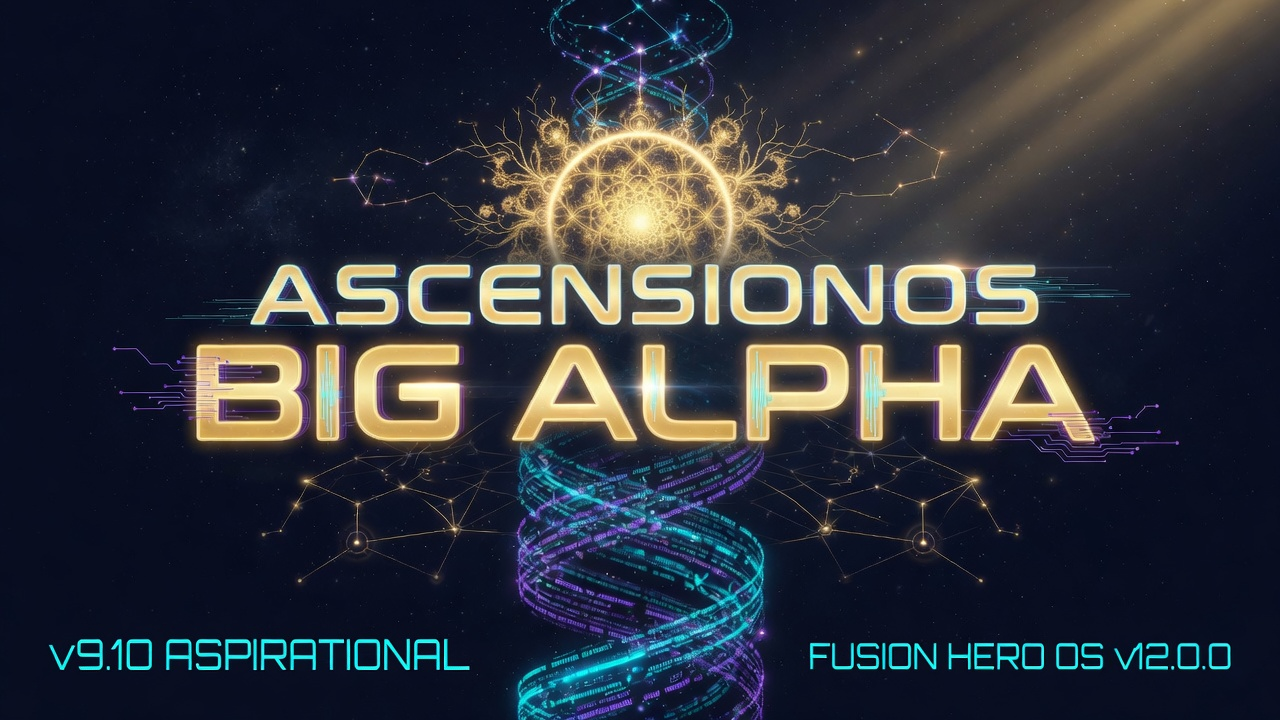
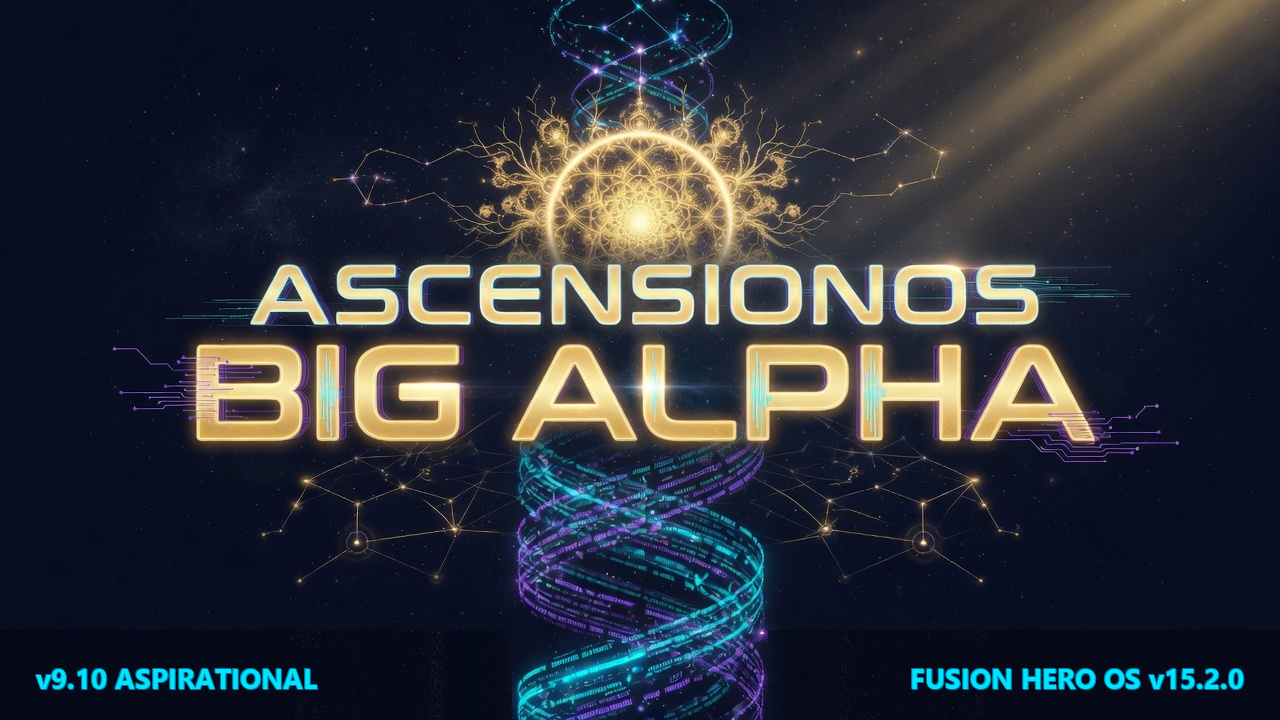
feat(assets): BIG ALPHA corner badges → FUSION HERO OS v15.2.0 [push-ok]
PIL-only label repaint (no diffusion). Left: v9.10 ASPIRATIONAL. Right:
FUSION HERO OS v15.2.0. Sync Dashboard static, ascension_os, dissertation,
memes; add relabel script + BIG_ALPHA_ASSET_V15.md. SHA256 in ops doc.

Changed region(s): [[0.625, 0.8861, 0.9688, 0.9778], [0.0312, 0.8861, 0.375, 0.9778]]

diff --git a/scripts/relabel_big_alpha_version.py b/scripts/relabel_big_alpha_version.py
@@ -1,0 +1,239 @@
+#!/usr/bin/env python3
+# -*- coding: utf-8 -*-
+"""Relabel BIG ALPHA corner version badges via PIL (exact strings, no diffusion).
+
+Default: right badge → FUSION HERO OS v{VERSION from root}
+Left badge stays v9.10 ASPIRATIONAL unless --left is set.
+
+Honesty: only paints discrete text; composition/DNA/title art untouched.
+"""
+from __future__ import annotations
+
+import argparse
+import hashlib
+import shutil
+import sys
+from pathlib import Path
+
+from PIL import Image, ImageDraw, ImageFont
+
+ROOT = Path(__file__).resolve().parents[1]
+
+# Sync targets inside repo (byte-identical after update)
+REPO_TARGETS = [
+    ROOT / "03_Code" / "Dashboard" / "static" / "big_ALPHA.png",
+    ROOT / "ascension_os" / "assets" / "big_ALPHA.png",
+    ROOT / "docs" / "dissertation" / "assets" / "ascensionOS_big_ALPHA.png",
+    ROOT / "docs" / "dissertation" / "assets" / "big_ALPHA_v15.png",
+    ROOT / "memes" / "ascensionOS_big_ALPHA.png",
+]
+
+CANON_CANDIDATES = [
+    Path(r"C:\Dissertation_95guknow\assets\big_ALPHA.png"),
+    ROOT / "03_Code" / "Dashboard" / "static" / "big_ALPHA.png",
+    ROOT / "docs" / "dissertation" / "assets" / "ascensionOS_big_ALPHA.png",
+]
+
+
+def read_platform_version() -> str:
+    vf = ROOT / "VERSION"
+    if vf.is_file():
+        return vf.read_text(encoding="utf-8").strip() or "15.2.0"
+    return "15.2.0"
+
+
+def pick_font(size: int) -> ImageFont.FreeTypeFont | ImageFont.ImageFont:
+    for path in (
+        r"C:\Windows\Fonts\segoeuib.ttf",
+        r"C:\Windows\Fonts\arialbd.ttf",
+        r"C:\Windows\Fonts\seguiemj.ttf",
+        r"C:\Windows\Fonts\arial.ttf",
+    ):
+        p = Path(path)
+        if p.is_file():
+            return ImageFont.truetype(str(p), size=size)
+    return ImageFont.load_default()
+
+
+def _median_bg(im: Image.Image, box: tuple[int, int, int, int]) -> tuple[int, int, int]:
+    crop = im.crop(box)
+    # sample corners of region (avoid text center)
+    w, h = crop.size
+    samples = [
+        crop.getpixel((2, 2)),
+        crop.getpixel((w - 3, 2)),
+        crop.getpixel((2, h - 3)),
+        crop.getpixel((w - 3, h - 3)),
+        crop.getpixel((w // 2, 2)),
+        crop.getpixel((w // 2, h - 3)),
+    ]
+    rs = sorted(s[0] for s in samples)
+    gs = sorted(s[1] for s in samples)
+    bs = sorted(s[2] for s in samples)
+    mid = len(samples) // 2
+    return rs[mid], gs[mid], bs[mid]
+
+
+def paint_badge(
+    im: Image.Image,
+    *,
+    text: str,
+    side: str,
+    fill: tuple[int, int, int] = (0, 229, 255),
+    font_size: int = 28,
+) -> None:
+    """Paint left or right bottom badge; cover previous string first."""
+    w, h = im.size
+    draw = ImageDraw.Draw(im)
+    font = pick_font(font_size)
+    # Measure
+    bbox = draw.textbbox((0, 0), text, font=font)
+    tw, th = bbox[2] - bbox[0], bbox[3] - bbox[1]
+    margin_x = 36
+    baseline_y = h - 42
+    if side == "left":
+        x = margin_x
+    else:
+        x = w - margin_x - tw
+    y = baseline_y - th
+
+    # Cover rect slightly larger than text
+    pad = 10
+    cover = (max(0, x - pad), max(0, y - pad), min(w, x + tw + pad), min(h, y + th + pad + 6))
+    bg = _median_bg(im, cover)
+    draw.rectangle(cover, fill=bg)
+
+    # Soft cyan glow (offset darker layers)
+    glow = (0, 120, 160)
+    for dx, dy in ((-1, 0), (1, 0), (0, -1), (0, 1), (-1, -1), (1, 1)):
+        draw.text((x + dx, y + dy), text, font=font, fill=glow)
+    draw.text((x, y), text, font=font, fill=fill)
+
+
+def sha256_file(path: Path) -> str:
+    h = hashlib.sha256()
+    with path.open("rb") as f:
+        for chunk in iter(lambda: f.read(1 << 20), b""):
+            h.update(chunk)
+    return h.hexdigest()
+
+
+def main() -> int:
+    ap = argparse.ArgumentParser(description="Relabel BIG ALPHA version badges")
+    ap.add_argument("--version", default=None, help="Platform version (default: root VERSION)")
+    ap.add_argument(
+        "--left",
+        default="v9.10 ASPIRATIONAL",
+        help="Left badge text (default keep aspirational track)",
+    )
+    ap.add_argument("--no-left", action="store_true", help="Do not repaint left badge")
+    ap.add_argument("--source", default=None, help="Source PNG path")
+    ap.add_argument("--dry-run", action="store_true")
+    args = ap.parse_args()
+
+    version = args.version or read_platform_version()
+    right = f"FUSION HERO OS v{version}"
+
+    src = Path(args.source) if args.source else None
+    if src is None:
+        for c in CANON_CANDIDATES:
+            if c.is_file():
+                src = c
+                break
+    if src is None or not src.is_file():
+        print("ERROR: no source big_ALPHA.png", file=sys.stderr)
+        return 1
+
+    im = Image.open(src).convert("RGB")
+    if not args.no_left and args.left:
+        paint_badge(im, text=args.left, side="left")
+    paint_badge(im, text=right, side="right")
+
+    out_primary = ROOT / "03_Code" / "Dashboard" / "static" / "big_ALPHA.png"
+    tmp = ROOT / "docs" / "ops" / f"_big_ALPHA_v{version.replace('.', '_')}_work.png"
+    tmp.parent.mkdir(parents=True, exist_ok=True)
+    im.save(tmp, format="PNG", optimize=True)
+
+    digest = sha256_file(tmp)
+    print(f"source:  {src}")
+    print(f"left:    {args.left if not args.no_left else '(unchanged)'}")
+    print(f"right:   {right}")
+    print(f"size:    {im.size}  bytes={tmp.stat().st_size}")
+    print(f"sha256:  {digest}")
+
+    if args.dry_run:
+        print("dry-run: not writing targets")
+        return 0
+
+    written: list[str] = []
+    for dest in REPO_TARGETS:
+        dest.parent.mkdir(parents=True, exist_ok=True)
+        shutil.copy2(tmp, dest)
+        written.append(str(dest))
+
+    # External canon + versioned copies (best-effort)
+    for extra in (
+        Path(r"C:\Dissertation_95guknow\assets\big_ALPHA.png"),
+        Path(rf"C:\Dissertation_95guknow\assets\big_ALPHA_v{version}.png"),
+        Path(r"C:\Dissertation_95guknow\assets\big_ALPHA_v15.png"),
+    ):
+        try:
+            if extra.parent.is_dir():
+                shutil.copy2(tmp, extra)
+                written.append(str(extra))
+        except OSError as e:
+            print(f"note: skip {extra}: {e}")
+
+    # Keep historical v13 filename as copy of new art only if explicitly requested?
+    # Honesty: big_ALPHA_v13.png should remain v13-era OR be left alone.
+    # We write big_ALPHA_v15.png and primary names only.
+
+    print("written:")
+    for w in written:
+        print(f"  {w}")
+
+    # Ops doc
+    doc = ROOT / "docs" / "ops" / "BIG_ALPHA_ASSET_V15.md"
+    doc.write_text(
+        f"""# BIG ALPHA Asset — v{version} label sync
+
+**Source (canonical disk):** `C:\\Dissertation_95guknow\\assets\\big_ALPHA.png`  
+**Versioned copy:** `C:\\Dissertation_95guknow\\assets\\big_ALPHA_v{version}.png`  
+**Also in repo:** `docs/dissertation/assets/big_ALPHA_v15.png`
+
+## Visual
+
+| Field | Value |
+|-------|--------|
+| Title | ASCENSIONOS / BIG ALPHA |
+| Left label | `{args.left if not args.no_left else "(unchanged)"}` |
+| Right label | `{right}` |
+| Size | {im.size[0]}×{im.size[1]} · ~{tmp.stat().st_size // 1024} KB |
+| SHA256 | `{digest}` |
+
+## Synced repo paths (byte-identical)
+
+- `03_Code/Dashboard/static/big_ALPHA.png`
+- `ascension_os/assets/big_ALPHA.png`
+- `docs/dissertation/assets/ascensionOS_big_ALPHA.png`
+- `docs/dissertation/assets/big_ALPHA_v15.png`
+- `memes/ascensionOS_big_ALPHA.png`
+
+## Method (honesty)
+
+Exact version strings painted via PIL (not diffusion) for discrete accuracy.
+Composition / DNA / title art preserved; only corner badges repainted.
+Script: `scripts/relabel_big_alpha_version.py` (platform from root `VERSION`={version}).
+
+Historical `big_ALPHA_v13.png` / `BIG_ALPHA_ASSET_V13.md` remain as v13-era record.
+""",
+        encoding="utf-8",
+    )
+    print(f"doc: {doc}")
+
+    # Cleanup work file from ops root noise optional — keep for audit
+    return 0
+
+
+if __name__ == "__main__":
+    raise SystemExit(main())

diff --git a/docs/ops/BIG_ALPHA_ASSET_V15.md b/docs/ops/BIG_ALPHA_ASSET_V15.md
@@ -1,0 +1,31 @@
+# BIG ALPHA Asset — v15.2.0 label sync
+
+**Source (canonical disk):** `C:\Dissertation_95guknow\assets\big_ALPHA.png`  
+**Versioned copy:** `C:\Dissertation_95guknow\assets\big_ALPHA_v15.2.0.png`  
+**Also in repo:** `docs/dissertation/assets/big_ALPHA_v15.png`
+
+## Visual
+
+| Field | Value |
+|-------|--------|
+| Title | ASCENSIONOS / BIG ALPHA |
+| Left label | `v9.10 ASPIRATIONAL` |
+| Right label | `FUSION HERO OS v15.2.0` |
+| Size | 1280×720 · ~967 KB |
[1 lines of base64/hex data omitted]
+
+## Synced repo paths (byte-identical)
+
+- `03_Code/Dashboard/static/big_ALPHA.png`
+- `ascension_os/assets/big_ALPHA.png`
+- `docs/dissertation/assets/ascensionOS_big_ALPHA.png`
+- `docs/dissertation/assets/big_ALPHA_v15.png`
+- `memes/ascensionOS_big_ALPHA.png`
+
+## Method (honesty)
+
+Exact version strings painted via PIL (not diffusion) for discrete accuracy.
+Composition / DNA / title art preserved; only corner badges repainted.
+Script: `scripts/relabel_big_alpha_version.py` (platform from root `VERSION`=15.2.0).
+
+Historical `big_ALPHA_v13.png` / `BIG_ALPHA_ASSET_V13.md` remain as v13-era record.
